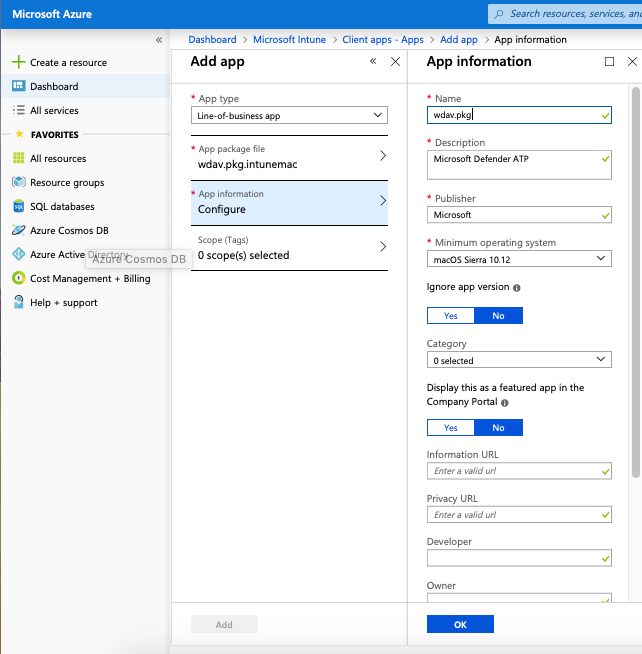
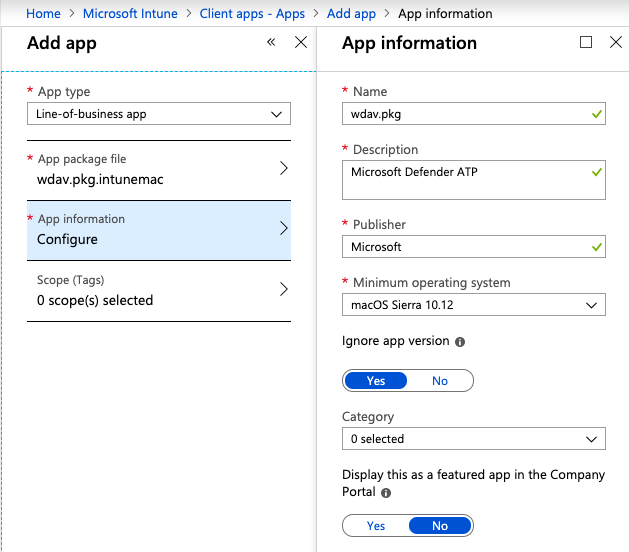
7/9 AM Publish (#655)
* Doc updates

* Casing

* Casing

* Updates

* Add some new issues

Changed region(s): [[0.0, 0.0, 1.0, 1.0], [0.3323, 0.9547, 0.3625, 0.9855], [0.2417, 0.9855, 0.2719, 1.0]]

diff --git a/windows/security/threat-protection/windows-defender-antivirus/microsoft-defender-atp-mac-install-with-intune.md b/windows/security/threat-protection/windows-defender-antivirus/microsoft-defender-atp-mac-install-with-intune.md
@@ -24,6 +24,12 @@ ms.topic: conceptual
 
 - [Microsoft Defender Advanced Threat Protection (Microsoft Defender ATP) for Mac](microsoft-defender-atp-mac.md)
 
+This topic describes how to deploy Microsoft Defender ATP for Mac through Intune. A successful deployment requires the completion of all of the following steps:
+- [Download installation and onboarding packages](#download-installation-and-onboarding-packages)
+- [Client device setup](#client-device-setup)
+- [Create System Configuration profiles](#create-system-configuration-profiles)
+- [Publish application](#publish-application)
+
 ## Prerequisites and system requirements
 
 Before you get started, see [the main Microsoft Defender ATP for Mac page](microsoft-defender-atp-mac.md) for a description of prerequisites and system requirements for the current software version.
@@ -122,7 +128,10 @@ Once the Intune changes are propagated to the enrolled devices, you can see them
 2. Select **App type=Other/Line-of-business app**.
 3. Select **file=wdav.pkg.intunemac**. Select **OK** to upload.
 4. Select **Configure** and add the required information.
-5. Use **macOS Sierra 10.12** as the minimum OS. Other settings can be any arbitrary value.
+5. Use **macOS Sierra 10.12** as the minimum OS and set *Ignore app version* to **Yes**. Other settings can be any arbitrary value.
+
+    > [!CAUTION]
+    > Failure to set *Ignore app version* to **Yes** impacts the ability of the application to receive updates through Microsoft AutoUpdate. See [Deploy updates for Microsoft Defender ATP for Mac](microsoft-defender-atp-mac-updates.md) for additional information about how the product is updated.
 
     ![Device status blade screenshot](images/MDATP_8_IntuneAppInfo.png)
 

diff --git a/windows/security/threat-protection/windows-defender-antivirus/microsoft-defender-atp-mac-install-with-jamf.md b/windows/security/threat-protection/windows-defender-antivirus/microsoft-defender-atp-mac-install-with-jamf.md
@@ -24,6 +24,13 @@ ms.topic: conceptual
 
 - [Microsoft Defender Advanced Threat Protection (Microsoft Defender ATP) for Mac](microsoft-defender-atp-mac.md)
 
+This topic describes how to deploy Microsoft Defender ATP for Mac through JAMF. A successful deployment requires the completion of all of the following steps:
+- [Download installation and onboarding packages](#download-installation-and-onboarding-packages)
+- [Create JAMF policies](#create-jamf-policies)
+- [Client device setup](#client-device-setup)
+- [Deployment](#deployment)
+- [Check onboarding status](#check-onboarding-status)
+
 ## Prerequisites and system requirements
 
 Before you get started, please see [the main Microsoft Defender ATP for Mac page](microsoft-defender-atp-mac.md) for a description of prerequisites and system requirements for the current software version.
@@ -57,7 +64,7 @@ Download the installation and onboarding packages from Windows Defender Security
     mavel-macmini:Downloads test$
     ```
 
-## Create JAMF Policies
+## Create JAMF policies
 
 You need to create a configuration profile and a policy to start deploying Microsoft Defender ATP for Mac to client devices.
 

diff --git a/windows/security/threat-protection/windows-defender-antivirus/microsoft-defender-atp-mac-install-manually.md b/windows/security/threat-protection/windows-defender-antivirus/microsoft-defender-atp-mac-install-manually.md
@@ -24,6 +24,11 @@ ms.topic: conceptual
 
 - [Microsoft Defender Advanced Threat Protection (Microsoft Defender ATP) for Mac](microsoft-defender-atp-mac.md)
 
+This topic describes how to deploy Microsoft Defender ATP for Mac manually. A successful deployment requires the completion of all of the following steps:
+- [Download installation and onboarding packages](#download-installation-and-onboarding-packages)
+- [Application installation](#application-installation)
+- [Client configuration](#client-configuration)
+
 ## Prerequisites and system requirements
 
 Before you get started, see [the main Microsoft Defender ATP for Mac page](microsoft-defender-atp-mac.md) for a description of prerequisites and system requirements for the current software version.

diff --git a/windows/security/threat-protection/windows-defender-antivirus/microsoft-defender-atp-mac.md b/windows/security/threat-protection/windows-defender-antivirus/microsoft-defender-atp-mac.md
@@ -35,7 +35,6 @@ If you have any feedback that you would like to share, submit it by opening Micr
 
 ### Prerequisites
 
-- Microsoft Defender ATP subscription
 - Access to the Microsoft Defender Security Center portal
 - Beginner-level experience in macOS and BASH scripting
 - Administrative privileges on the device (in case of manual deployment)
